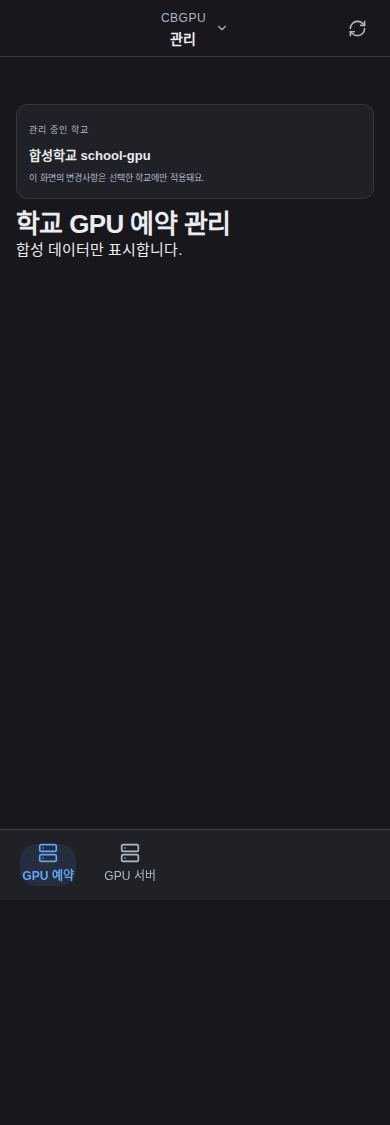
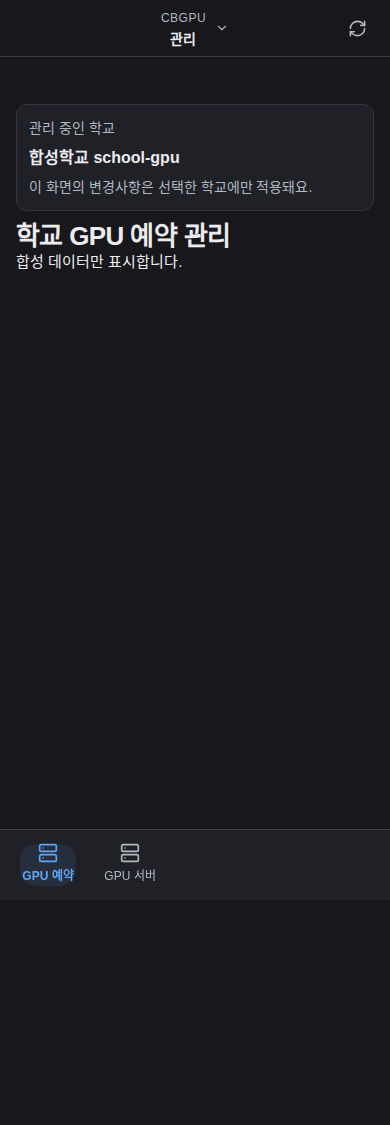
Keep school context readable and await dropdown focus restoration

Changed region(s): [[0.0308, 0.0933, 0.6462, 0.2489], [0.6769, 0.1556, 0.8, 0.1867]]

diff --git a/src/components/schools/school-admin-hub.css b/src/components/schools/school-admin-hub.css
@@ -10,3 +10,10 @@
 
 /* The shell resets paragraph margins; the count line must still breathe above the school cards. */
 .admin-developer-shell .cb-school-admin-hub .cb-admin-school-count{margin:18px 0 16px;font-size:14px}
+/* School operators use the same readable controls on desktop and in the app. */
+.cb-school-scoped-shell .cb-admin-school-context>span,
+.cb-school-scoped-shell .cb-admin-school-context p{font-size:14px;line-height:1.6;letter-spacing:normal;text-transform:none}
+.cb-school-scoped-shell .cb-admin-school-context strong{font-size:16px;line-height:1.5}
+.cb-school-scoped-shell .cb-admin-school-context [data-slot=select-trigger]{min-height:44px;font-size:14px}
+.cb-school-scoped-shell .cb-admin-school-tools p,
+.cb-school-scoped-shell .cb-admin-muted{font-size:14px}
